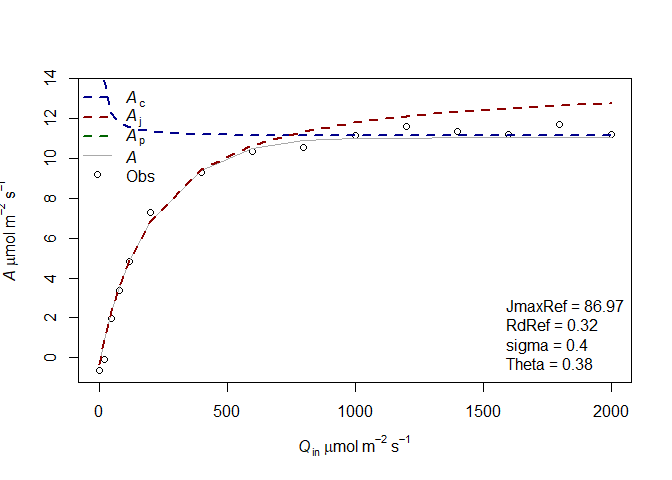
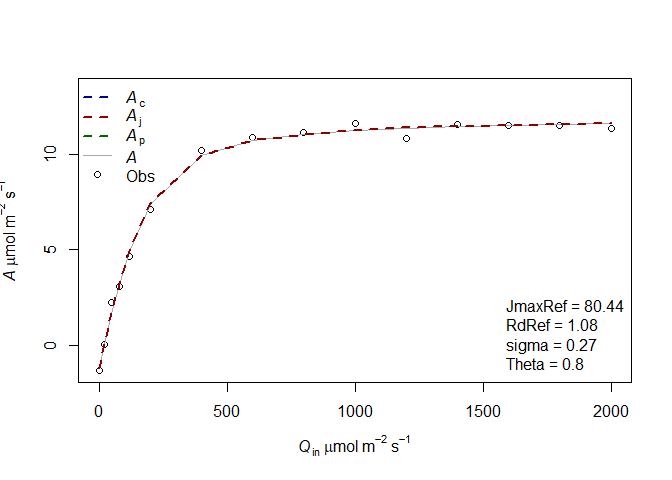
Update vignette

diff --git a/vignettes/Aq_fitting.md b/vignettes/Aq_fitting.md
@@ -80,15 +80,15 @@ the photosynthesis rates. We’ll revisit this assumption later.
                        modify.init=TRUE,do.plot=TRUE,type='Aq')
 
     ## $par
-    ##     JmaxRef       RdRef       Theta 
-    ## 113.7118145   0.2601098  -0.1994429 
+    ##    JmaxRef      RdRef      Theta 
+    ## 89.9712392  1.1241761  0.7562085 
     ## 
     ## $value
-    ## [1] 3.907609
+    ## [1] 1.137301
     ## 
     ## $counts
     ## function gradient 
-    ##      120       NA 
+    ##      110       NA 
     ## 
     ## $convergence
     ## [1] 0
@@ -96,7 +96,7 @@ the photosynthesis rates. We’ll revisit this assumption later.
     ## $message
     ## NULL
     ## 
-    ## [1] "sd 0.51039910701802"
+    ## [1] "sd 0.275354423673918"
     ## Length  Class   Mode 
     ##      1   mle2     S4
 
@@ -110,15 +110,15 @@ information in the curve to estimate it.
                        modify.init=TRUE,do.plot=TRUE,type='Aq')
 
     ## $par
-    ##    JmaxRef   VcmaxRef      RdRef      Theta 
-    ## 82.1136986 59.9695836  0.8751863  0.7147391 
+    ##   JmaxRef  VcmaxRef     RdRef     Theta 
+    ## 93.295444 62.617218  1.090212  0.710990 
     ## 
     ## $value
-    ## [1] 1.25964
+    ## [1] 1.079666
     ## 
     ## $counts
     ## function gradient 
-    ##      487       NA 
+    ##      425       NA 
     ## 
     ## $convergence
     ## [1] 0
@@ -126,7 +126,7 @@ information in the curve to estimate it.
     ## $message
     ## NULL
     ## 
-    ## [1] "sd 0.289786092827467"
+    ## [1] "sd 0.268286688021414"
     ## Length  Class   Mode 
     ##      1   mle2     S4
 
@@ -144,11 +144,11 @@ info).
 
     confint(fitting1[[2]])
 
-    ##               2.5 %    97.5 %
-    ## sigma    0.37100998 0.7662110
-    ## JmaxRef 81.14004913        NA
-    ## RdRef   -0.06665939 0.5715776
-    ## Theta   -2.98343197 0.5706621
+    ##              2.5 %     97.5 %
+    ## sigma    0.2001556  0.4133620
+    ## JmaxRef 87.5057929 92.5227812
+    ## RdRef    0.8591327  1.3861695
+    ## Theta    0.6657821  0.8270025
 
 It is possible to compare the AIC of the two models using the base
 function AIC or BIC. The lower AIC or BIC corresponds to the best model.
@@ -156,11 +156,11 @@ It shows in this case that adding VcmaxRef is not usefull.
 
     BIC(fitting1[[2]])
 
-    ## [1] 27.93646
+    ## [1] 9.422447
 
     BIC(fitting2[[2]])
 
-    ## [1] 12.34126
+    ## [1] 10.02865
 
 We can redo this procedure for the second simulated curve:
 
@@ -169,14 +169,14 @@ We can redo this procedure for the second simulated curve:
 
     ## $par
     ##    JmaxRef      RdRef      Theta 
-    ## 86.9748423  0.3207121  0.3814943 
+    ## 80.4394879  1.0774293  0.8045951 
     ## 
     ## $value
-    ## [1] 2.445858
+    ## [1] 1.080278
     ## 
     ## $counts
     ## function gradient 
-    ##      162       NA 
+    ##      106       NA 
     ## 
     ## $convergence
     ## [1] 0
@@ -184,7 +184,7 @@ We can redo this procedure for the second simulated curve:
     ## $message
     ## NULL
     ## 
-    ## [1] "sd 0.403803456646784"
+    ## [1] "sd 0.268362699108731"
     ## Length  Class   Mode 
     ##      1   mle2     S4
 
@@ -194,23 +194,23 @@ We can redo this procedure for the second simulated curve:
                        modify.init=TRUE,do.plot=TRUE,type='Aq')
 
     ## $par
-    ##     JmaxRef       RdRef       Theta    VcmaxRef 
-    ##  77.9466375   0.7369673   0.7458313 777.4815995 
+    ##    JmaxRef      RdRef      Theta   VcmaxRef 
+    ## 89.0847230  0.9900322  0.6818325 54.7903712 
     ## 
     ## $value
-    ## [1] 0.8643026
+    ## [1] 0.7971008
     ## 
     ## $counts
     ## function gradient 
-    ##      501       NA 
+    ##      483       NA 
     ## 
     ## $convergence
-    ## [1] 1
+    ## [1] 0
     ## 
     ## $message
     ## NULL
     ## 
-    ## [1] "sd 0.240042023484236"
+    ## [1] "sd 0.230521271470263"
     ## Length  Class   Mode 
     ##      1   mle2     S4
 
@@ -221,11 +221,11 @@ parameter to estimate:
 
     BIC(fitting3[[2]])
 
-    ## [1] 20.90852
+    ## [1] 8.650857
 
     BIC(fitting4[[2]])
 
-    ## [1] 6.691371
+    ## [1] 5.477261
 
 In this case, the model with VcmaxRef is better.
 
